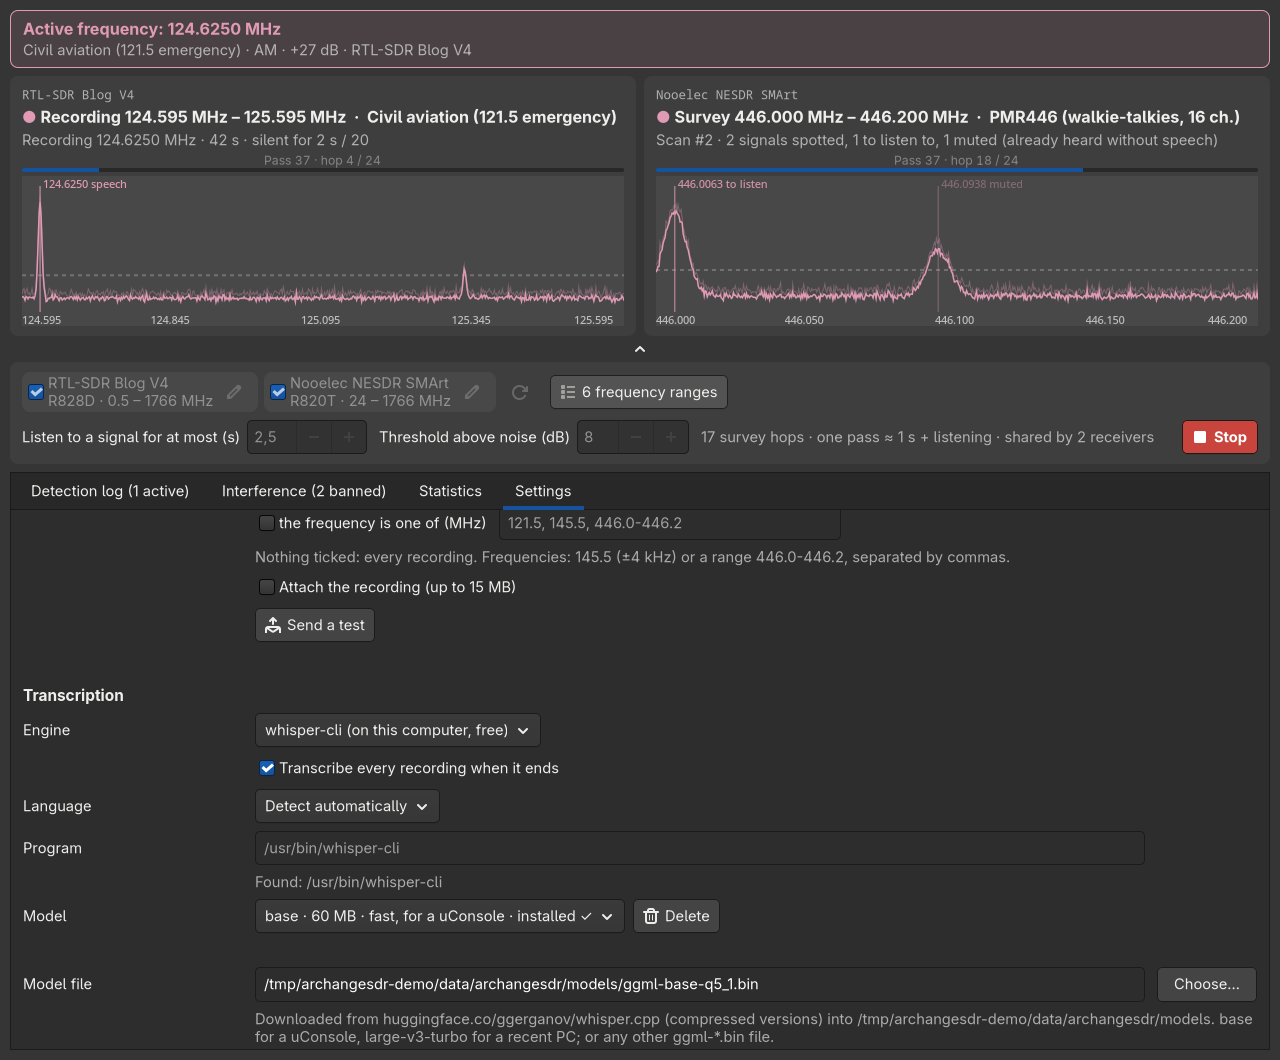
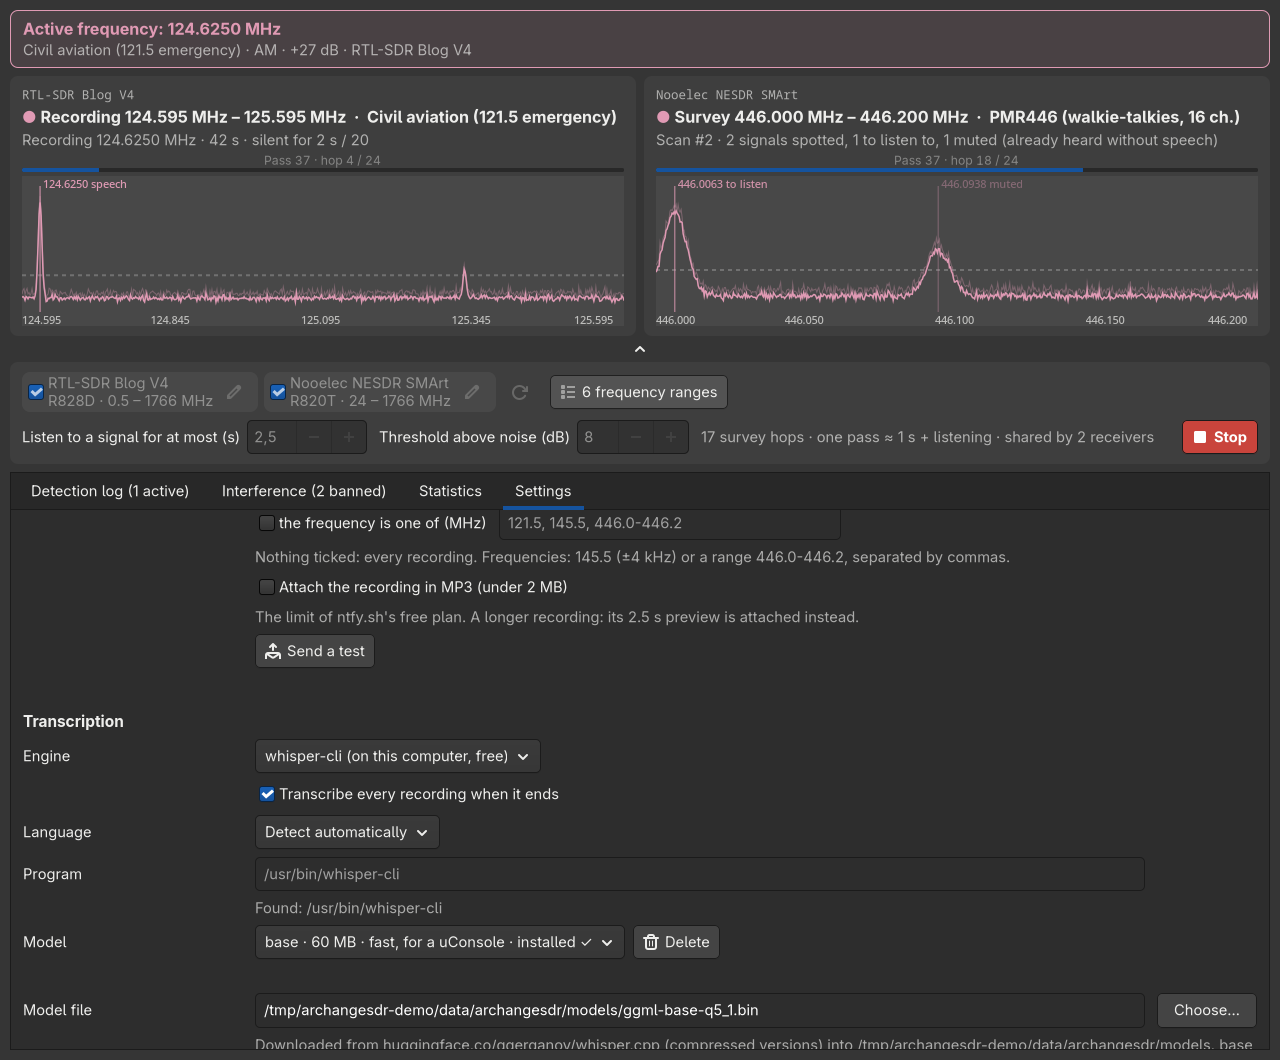
ntfy: MP3 attachments under 2 MB, fields shown once enabled
- Attachments are encoded to MP3 (lame, else ffmpeg; 32 kbit/s mono, ~1/8 of
  the WAV) and sent when under 2 MB, ntfy.sh's free-plan limit (15 MB was
  wrong for it); a longer recording sends its 2.5 s preview, with a note in
  the message. Without an encoder the WAV goes, under the same limit. The
  stored files stay WAV.
- The topic, token, conditions and attachment settings show only once "Send
  each new recording to my phone" is ticked.
- ntfy_send closes the attached file.
- tests/test_ntfy.py: the attachment choice and a sending to a local server.
- README (optional dependencies), AGENT.md, install.sh and the settings
  screenshot follow.

diff --git a/tests/test_ntfy.py b/tests/test_ntfy.py
@@ -1,0 +1,109 @@
+"""ntfy attachments: the recording in MP3 when it fits under ntfy.sh's free limit, else its preview; the
+WAV when no encoder is installed. A local HTTP server stands for ntfy (nothing leaves the machine)."""
+import http.server
+import os
+import shutil
+import tempfile
+import threading
+import unittest
+import wave
+
+import numpy as np
+
+from tests.support import app
+
+
+def write_wav(path, seconds, seed=1):
+    rng = np.random.default_rng(seed)
+    audio = (0.2 * np.sin(2 * np.pi * 440 * np.arange(int(16000 * seconds)) / 16000) +
+             0.05 * rng.standard_normal(int(16000 * seconds))) * 32767
+    with wave.open(path, "wb") as w:
+        w.setnchannels(1)
+        w.setsampwidth(2)
+        w.setframerate(16000)
+        w.writeframes(audio.astype("<i2").tobytes())
+    return path
+
+
+class Ntfy(http.server.BaseHTTPRequestHandler):
+    got = []
+
+    def do_PUT(self):
+        self.got.append((self.command, self.path, self.rfile.read(int(self.headers["Content-Length"]))))
+        self.send_response(200)
+        self.end_headers()
+
+    do_POST = do_PUT
+
+    def log_message(self, *_):
+        pass
+
+
+class Attachment(unittest.TestCase):
+    def setUp(self):
+        self.a = app()
+        self.tmp = tempfile.mkdtemp()
+        self.rec = write_wav(os.path.join(self.tmp, "rec.wav"), 20)
+        self.clip = write_wav(os.path.join(self.tmp, "clip.wav"), 2.5, seed=2)
+        self.limit, self.encoder = self.a.NTFY_MAX_ATTACH, self.a.to_mp3
+
+    def tearDown(self):
+        self.a.NTFY_MAX_ATTACH, self.a.to_mp3 = self.limit, self.encoder
+        shutil.rmtree(self.tmp, ignore_errors=True)
+
+    def test_limit(self):
+        self.assertEqual(self.a.NTFY_MAX_ATTACH, 2_000_000)
+
+    @unittest.skipUnless(shutil.which("lame") or shutil.which("ffmpeg"), "no MP3 encoder")
+    def test_mp3_recording(self):
+        f, preview = self.a.ntfy_attachment(self.rec, self.clip, self.tmp, 7)
+        self.assertFalse(preview)
+        self.assertTrue(f.endswith("7.mp3"))
+        self.assertLess(os.path.getsize(f), os.path.getsize(self.rec) / 4)
+
+    @unittest.skipUnless(shutil.which("lame") or shutil.which("ffmpeg"), "no MP3 encoder")
+    def test_too_long_sends_the_preview(self):
+        self.a.NTFY_MAX_ATTACH = 50_000          # 20 s at 32 kbit/s is 80 kB, 2.5 s is 10 kB
+        f, preview = self.a.ntfy_attachment(self.rec, self.clip, self.tmp, 7)
+        self.assertTrue(preview)
+        self.assertTrue(f.endswith("7-preview.mp3"))
+
+    def test_without_encoder(self):
+        self.a.to_mp3 = lambda wav, out: None
+        self.assertEqual(self.a.ntfy_attachment(self.rec, self.clip, self.tmp, 7), (self.rec, False))  # 640 kB
+        self.a.NTFY_MAX_ATTACH = 100_000
+        self.assertEqual(self.a.ntfy_attachment(self.rec, self.clip, self.tmp, 7), (self.clip, True))
+        self.a.NTFY_MAX_ATTACH = 1_000
+        self.assertEqual(self.a.ntfy_attachment(self.rec, self.clip, self.tmp, 7), (None, False))
+
+    def test_notify_recording(self):
+        """A whole sending to a local server: the preview and its note when the recording is too big."""
+        a = self.a
+        server = http.server.HTTPServer(("127.0.0.1", 0), Ntfy)
+        threading.Thread(target=server.serve_forever, daemon=True).start()
+        Ntfy.got = []
+        a.NTFY_MAX_ATTACH = 100_000
+        a.to_mp3 = lambda wav, out: None
+        settings = a.load_settings()
+        try:
+            a.save_settings(dict(settings, ntfy={"enabled": True, "attach": True,
+                                                 "url": "http://127.0.0.1:%d/topic" % server.server_port}))
+            store = a.Store()
+            did = store.q("INSERT INTO detections (scan_id, freq, mode, label, first_seen, last_seen, hits, snr, "
+                          "score, kind, audio, recording, rec_s) VALUES (0, 145.5e6, 'NFM', '2 m', 0, 0, 1, 20, 1.5, "
+                          "'voice', ?, ?, 20)", (self.clip, self.rec), True)
+            a.notify_recording(store, did)
+        finally:
+            a.save_settings(settings)
+            server.shutdown()
+            server.server_close()
+        self.assertIsNone(a.NTFY_LAST.get("error"))
+        method, path, body = Ntfy.got[0]
+        self.assertEqual(method, "PUT")
+        self.assertIn("filename=clip.wav", path)
+        with open(self.clip, "rb") as f:
+            self.assertEqual(body, f.read())
+
+
+if __name__ == "__main__":
+    unittest.main()

diff --git a/AGENT.md b/AGENT.md
@@ -46,7 +46,7 @@ detection, in en / fr / de / es. It ships standalone and inside two desktops by 
   Raspberry Pi 4 (CM4); keep the processing per block. Check: `tools/bench.py` (above 100 % "real
   time", the machine cannot keep up with the dongle).
 - **External programs are optional and probed** (`launch`, `run_quiet`, `FileNotFoundError` caught):
-  pw-play / paplay / aplay, notify-send, gqrx, xdg-open, pkill / pgrep, hyprctl. A missing one must
+  pw-play / paplay / aplay, notify-send, gqrx, xdg-open, pkill / pgrep, hyprctl, lame / ffmpeg. A missing one must
   never crash the app.
 - **Python 3.8 syntax** (`:=` is used, nothing newer: no `match`, no `X | Y` types, no `list[int]` at
   runtime). Check: `python3 -c "import ast; ast.parse(open('archangesdr').read(), feature_version=(3, 8))"`.
@@ -180,8 +180,14 @@ because the strings and `CONF` are read at import.
   `sh -c` in their own process group; `stop_joined` kills that group when the scan resumes.
 - ntfy: `notify_recording` runs in a thread when a `Recording` closes; `ntfy_wanted` applies the
   conditions; `ntfy_send` POSTs the message (title and tags as query parameters, UTF-8 safe) or PUTs the
-  WAV with `filename`/`message` parameters; the token goes in `Authorization: Bearer`, never in the URL.
-  Settings in `settings["ntfy"]`.
+  attachment with `filename`/`message` parameters; the token goes in `Authorization: Bearer`, never in the
+  URL. Settings in `settings["ntfy"]`. In the Settings tab the topic, token, conditions and attachment show only once
+  "Send each new recording" is ticked: filled in under an unticked box, they looked like a working setup.
+- ntfy attachments (`ntfy_attachment`): the recording encoded to MP3 (`to_mp3`: lame, else ffmpeg, at
+  `MP3_KBPS` = 32 kbit/s mono, ~1/8 of the WAV) if under `NTFY_MAX_ATTACH` = 2 MB (ntfy.sh's free plan;
+  15 MB was its paid / self-hosted figure), else the 2.5 s preview, with a note in the message. Without
+  an encoder the WAV goes (about a minute fits). The MP3 is a temporary file: the stored files stay WAV
+  (playback, whisper-cli and the appended recordings need it).
 
 ## Files and profiles
 

diff --git a/README.md b/README.md
@@ -64,7 +64,7 @@ Ubuntu 22.04, Fedora 36, openSUSE Leap 15.4 or newer.
 | Listening to the recordings | `pw-play` (PipeWire), else `paplay` or `aplay` | usually already there |
 | Join a frequency | **one of** GQRX, SDR++, rtl_fm (with `aplay`), or your own command | `gqrx` (`gqrx-sdr` on Debian / Ubuntu); SDR++ from its [releases](https://github.com/AlexandreRouma/SDRPlusPlus/releases) or the AUR; rtl_fm comes with `rtl-sdr` |
 | Transcription | whisper.cpp (`whisper-cli`), free and local, **or** an OpenAI-compatible API (a local server, OpenAI, Scaleway, Mistral, Groq…) | see [Transcription with whisper.cpp](#transcription-with-whispercpp) |
-| Push notifications | the free [ntfy](https://ntfy.sh) app on your phone, subscribed to a topic (ntfy.sh or your own server) | nothing on the computer |
+| Push notifications | the free [ntfy](https://ntfy.sh) app on your phone, subscribed to a topic (ntfy.sh or your own server); recordings are attached in MP3 when they are under 2 MB (ntfy.sh's free plan), else their 2.5 s preview | `lame` or `ffmpeg` for the MP3 (without them, the WAV: about a minute fits) |
 | Desktop notifications | `notify-send` and a notification daemon | `libnotify` (`libnotify-bin` on Debian / Ubuntu) |
 | Receivers other than RTL-SDR (HackRF, Airspy, SDRplay, LimeSDR, PlutoSDR…) | SoapySDR's Python module and the receiver's SoapySDR module; the receiver must sample at 2.4 MS/s or more (the Airspy HF+ cannot) | Arch: `soapysdr` plus `soapyhackrf`, `soapyairspy`…; Debian / Ubuntu: `python3-soapysdr` plus `soapysdr-module-hackrf`, `soapysdr-module-airspy`… (or `soapysdr-module-all`); elsewhere the SoapySDR Python bindings and the module of the receiver |
 
